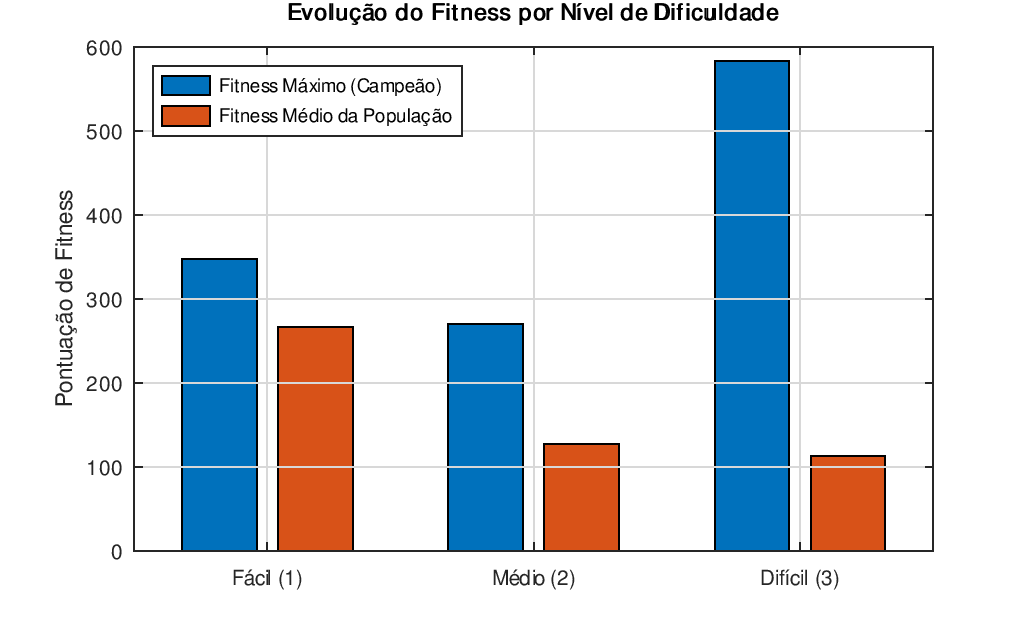
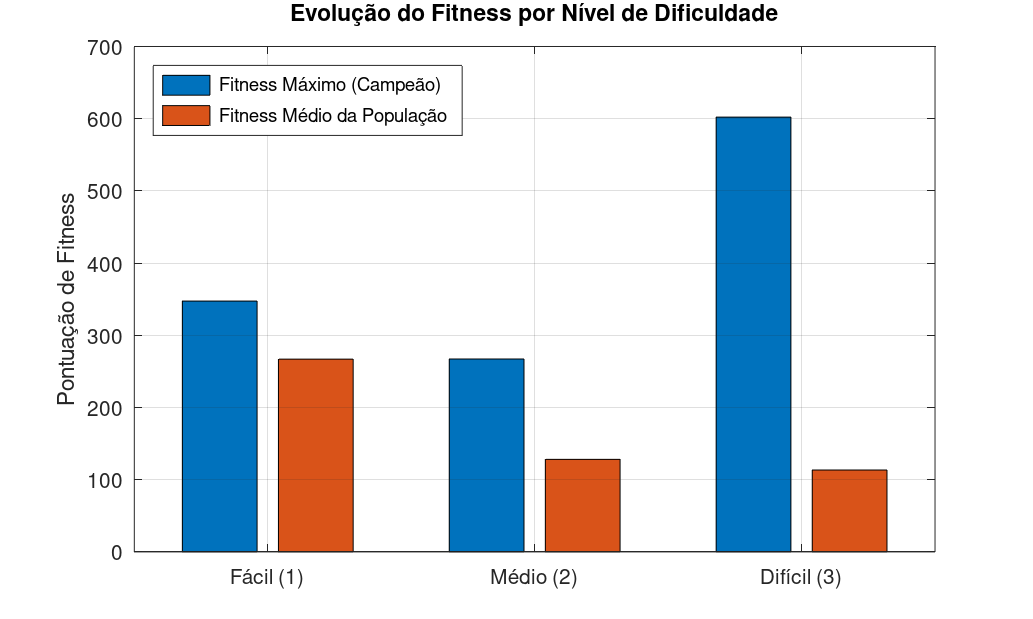
feat: Aumenta simulação para 30s e rebalanceia fitness para equalizar atributos

diff --git a/src/run_batch_experiment.m b/src/run_batch_experiment.m
@@ -99,7 +99,6 @@ function run_batch_experiment(difficulty_arg, num_runs_arg, pure_mutation_arg)
         best_overall_chromosome = [];
         best_overall_fitness = -1;
         history_max_fitness = zeros(max_gen, 1);
-        history_mean_fitness = zeros(max_gen, 1);
         
         map_elites_fitness = -ones(3, 3);
         map_elites_chromosomes = zeros(3, 3, 4);
@@ -145,7 +144,6 @@ function run_batch_experiment(difficulty_arg, num_runs_arg, pure_mutation_arg)
             [current_max_fit, best_idx] = max(fitnesses);
             current_mean_fit = mean(fitnesses);
             history_max_fitness(gen) = current_max_fit;
-            history_mean_fitness(gen) = current_mean_fit;
             
             if current_max_fit > best_overall_fitness
                 best_overall_fitness = current_max_fit;
@@ -267,30 +265,6 @@ function run_batch_experiment(difficulty_arg, num_runs_arg, pure_mutation_arg)
             end
         end
         
-        % Salva Gráfico da Rodada Individual
-        try
-            rodadas_dir = fullfile('data', 'graficos', 'rodadas');
-            if ~exist(rodadas_dir, 'dir')
-                mkdir(rodadas_dir);
-            end
-            
-            fig_run = figure('Position', [200, 200, 700, 500]);
-            gens_x = 1:real_gens;
-            plot(gens_x, history_max_fitness(1:real_gens), 'g-o', 'LineWidth', 2, 'MarkerFaceColor', 'g');
-            hold on; grid on;
-            plot(gens_x, history_mean_fitness(1:real_gens), 'c-s', 'LineWidth', 2, 'MarkerFaceColor', 'c');
-            title(sprintf('Evolucao Tatica: Rodada %02d (Dificuldade %d)', run, difficulty));
-            xlabel('Geracoes');
-            ylabel('Valor de Aptidao (Fitness)');
-            legend('Fitness Maximo (Elites)', 'Fitness Medio (Populacao)', 'Location', 'southeast');
-            
-            ts_file = datestr(now, 'yyyy-mm-dd_HH-MM-SS');
-            run_img_name = fullfile(rodadas_dir, sprintf('evolucao_dif%d_rodada%02d_%s.png', difficulty, run, ts_file));
-            print(fig_run, run_img_name, '-dpng');
-            close(fig_run);
-        catch
-        end
-
         fprintf('[Dificuldade %d] Rodada %02d/%02d concluída em %6.2fs | Gens: %02d | FitMax: %7.2f | HP: %3d | Atk: %2d | AtkSpd: %.2f | MovSpd: %.2f\n', ...
             difficulty, run, num_runs, time_elapsed, real_gens, best_overall_fitness, ...
             round(best_overall_chromosome(1)), round(best_overall_chromosome(2)), ...

diff --git a/src/fitness_function.m b/src/fitness_function.m
@@ -6,22 +6,22 @@ function fitness = fitness_function(T_survival, N_dodge, N_collision, D_taken, D
     % Dificuldade 3 (Difícil): Bullet Hell implacável. Evasão e sobrevivência são vitais.
     
     if difficulty == 1 % Fácil
-        w1 = 2.0;  % Sobrevivência
+        w1 = 3.0;  % Sobrevivência (30s)
         w2 = 3.0;  % Desvios
-        w3 = 0.20; % Dano infligido
-        p1 = 3.0;  % Penalidade por colisão
+        w3 = 0.25; % Dano infligido
+        p1 = 4.0;  % Penalidade por colisão
         p2 = 0.2;  % Penalidade por dano tomado
     elseif difficulty == 3 % Difícil
-        w1 = 3.5;  % Sobrevivência
-        w2 = 12.0; % Desvios com sucesso
-        w3 = 0.05; % Dano infligido
-        p1 = 25.0; % Penalidade severa por colisão
-        p2 = 1.0;  % Penalidade por dano tomado
+        w1 = 4.0;  % Sobrevivência (30s)
+        w2 = 7.0;  % Desvios com sucesso
+        w3 = 0.18; % Dano infligido (Fortalecido para não zerar ataque)
+        p1 = 18.0; % Penalidade por colisão
+        p2 = 0.8;  % Penalidade por dano tomado
     else % Médio (difficulty == 2)
-        w1 = 2.5;  % Sobrevivência
-        w2 = 6.0;  % Desvios
-        w3 = 0.10; % Dano infligido
-        p1 = 12.0; % Penalidade por colisão
+        w1 = 3.5;  % Sobrevivência (30s)
+        w2 = 5.0;  % Desvios
+        w3 = 0.20; % Dano infligido
+        p1 = 10.0; % Penalidade por colisão
         p2 = 0.5;  % Penalidade por dano tomado
     end
     

diff --git a/src/npc_evasivo_ga.m b/src/npc_evasivo_ga.m
@@ -311,18 +311,6 @@ if ~exist('disable_plotting', 'var') || disable_plotting == false
     legend('Fitness Maximo (Elites)', 'Fitness Medio (Populacao)', 'Location', 'southeast');
     drawnow;
 
-    try
-        rodadas_dir = fullfile('data', 'graficos', 'rodadas');
-        if ~exist(rodadas_dir, 'dir')
-            mkdir(rodadas_dir);
-        end
-        ts_file = datestr(now, 'yyyy-mm-dd_HH-MM-SS');
-        run_img_name = fullfile(rodadas_dir, sprintf('evolucao_dif%d_manual_%s.png', difficulty, ts_file));
-        print(gcf, run_img_name, '-dpng');
-        fprintf('>> Gráfico de evolução da rodada salvo em: %s\n', run_img_name);
-    catch
-    end
-
     % 5. TESTE VISUAL
     fprintf('\nPreparando exibicao visual do combate com o genoma perfeito...\n');
     fprintf('(Va ate a janela de graficos para assistir)\n');

diff --git a/src/simulate_episode.m b/src/simulate_episode.m
@@ -23,7 +23,7 @@ function [T_survival, N_dodge, N_collision, D_taken, D_inflicted] = simulate_epi
     
     % Parâmetros Físicos do Tempo e Espaço
     dt = 0.05;              % Delta de tempo por frame
-    max_time = 15.0;        % Duração máxima do round
+    max_time = 30.0;        % Duração máxima do round (30 segundos)
     npc_radius = 1.0;       % Tamanho da "hitbox" do NPC
     radar_radius = 4.0;     % Área de detecção periférica
     
